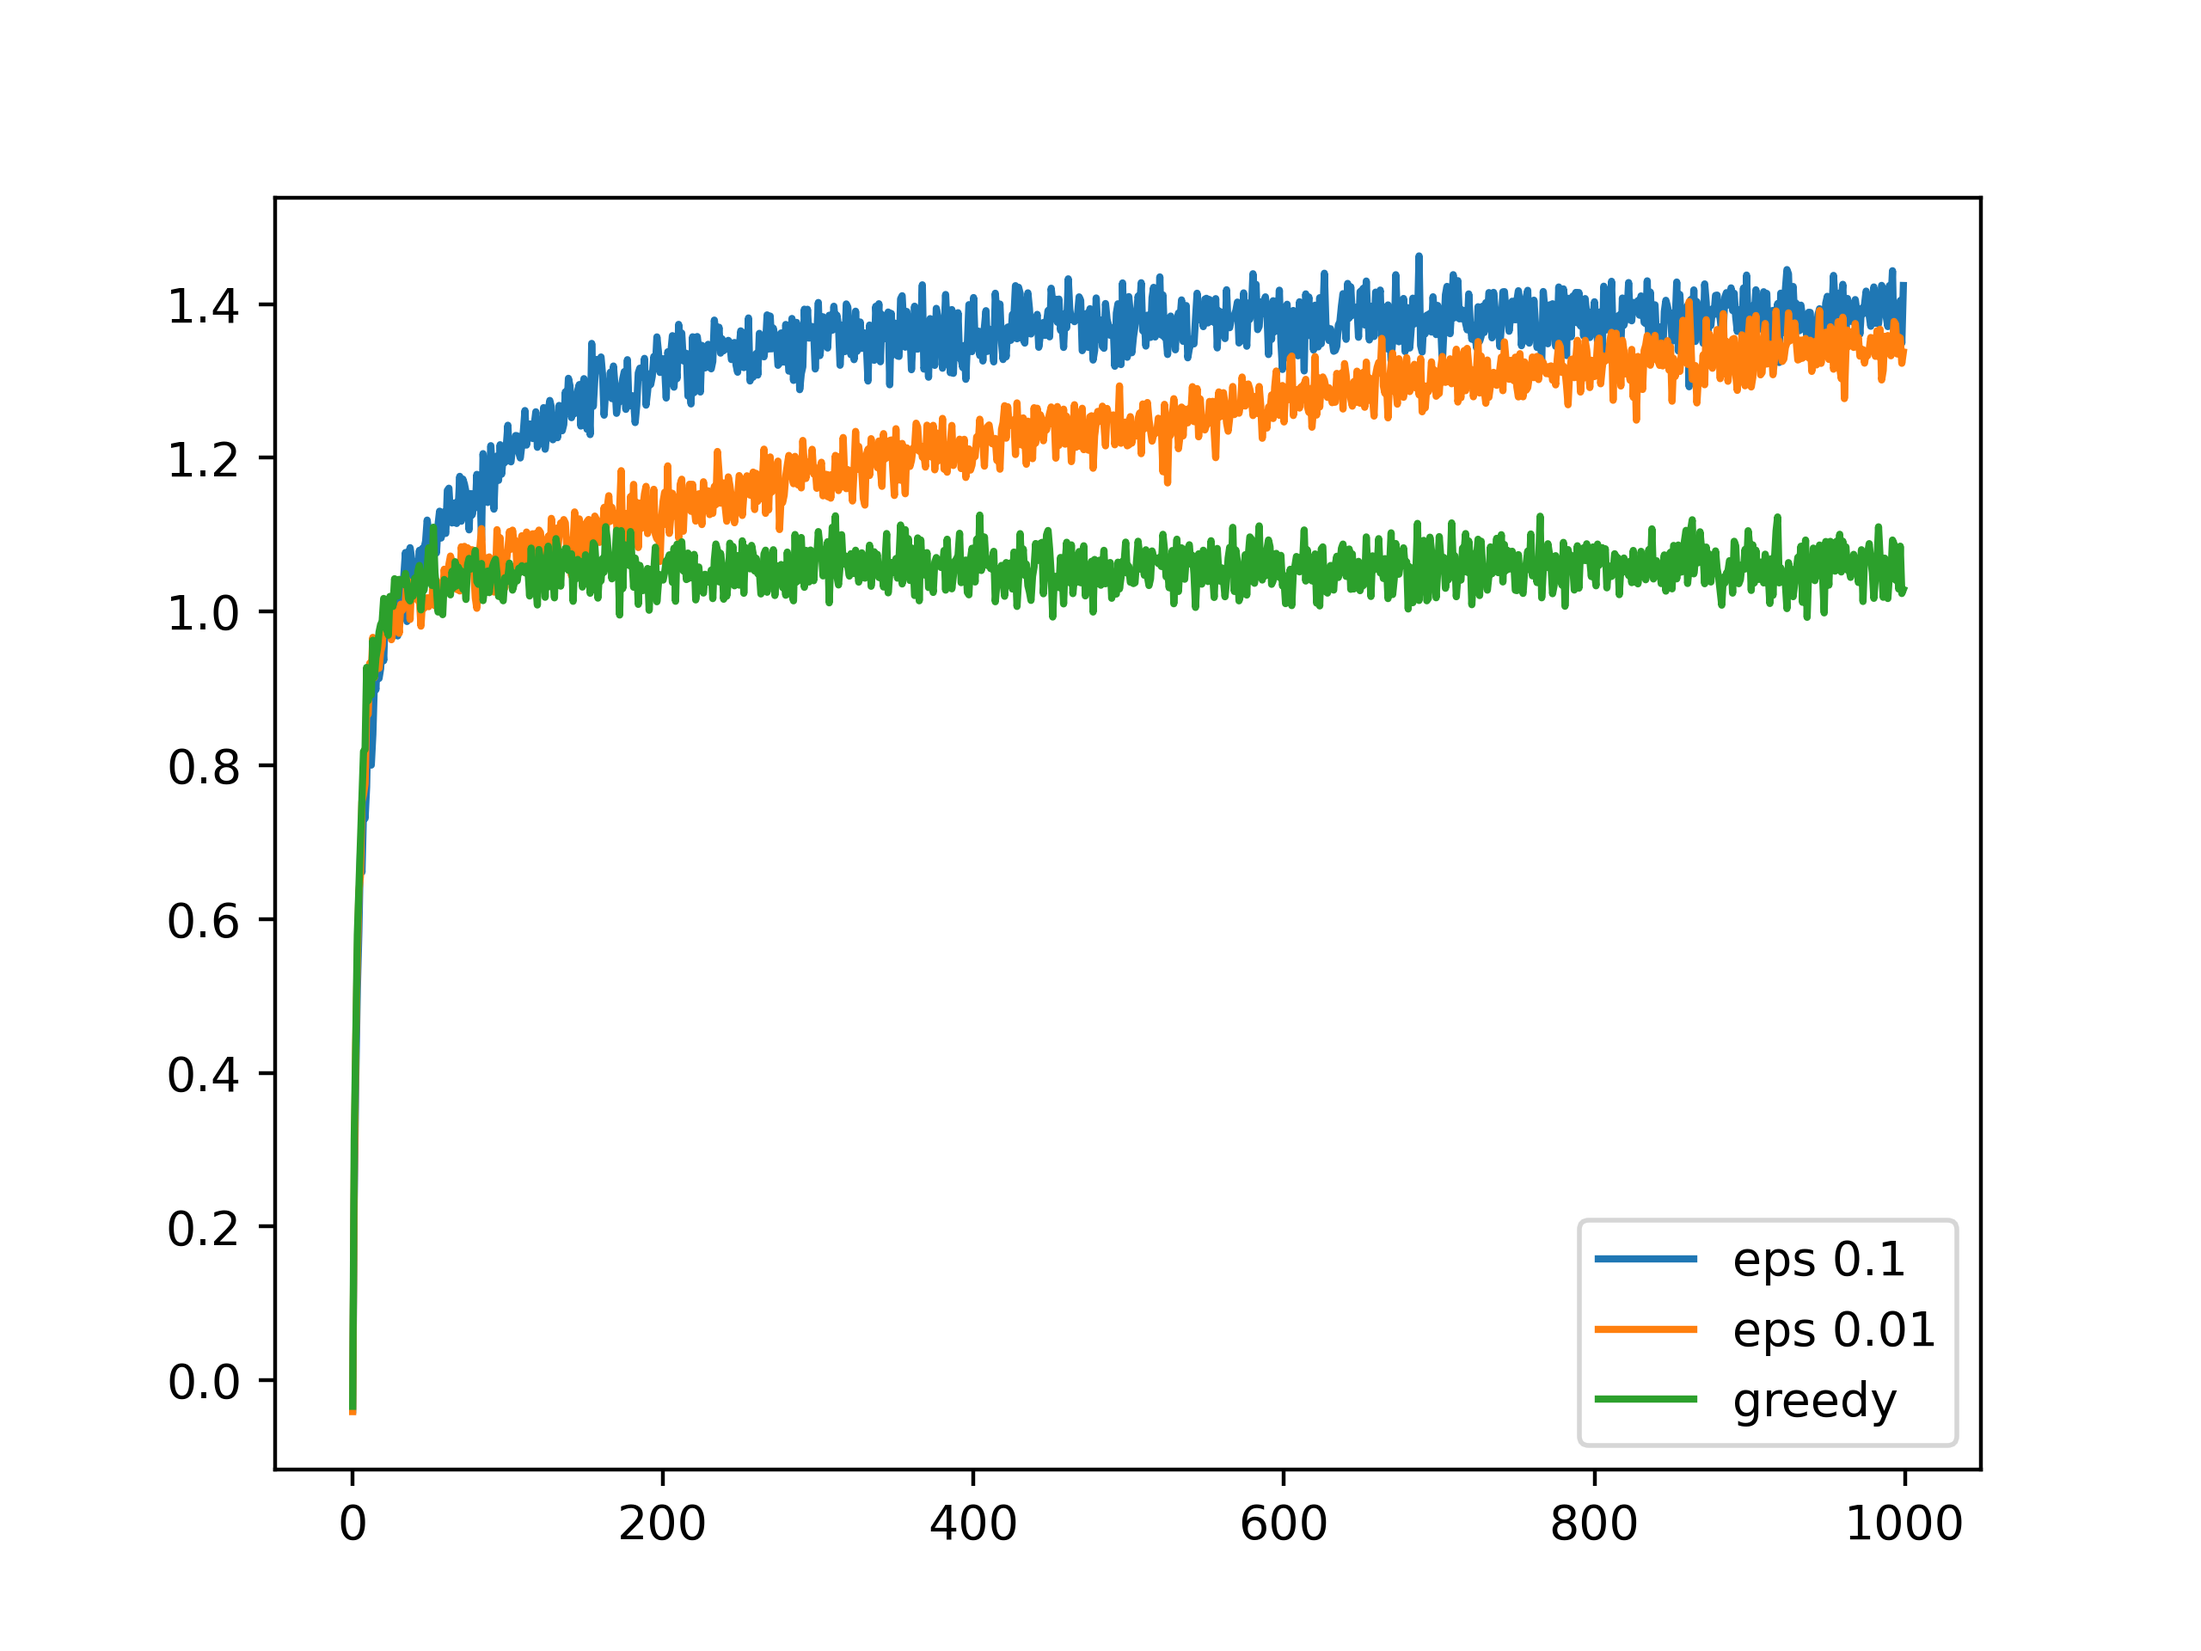
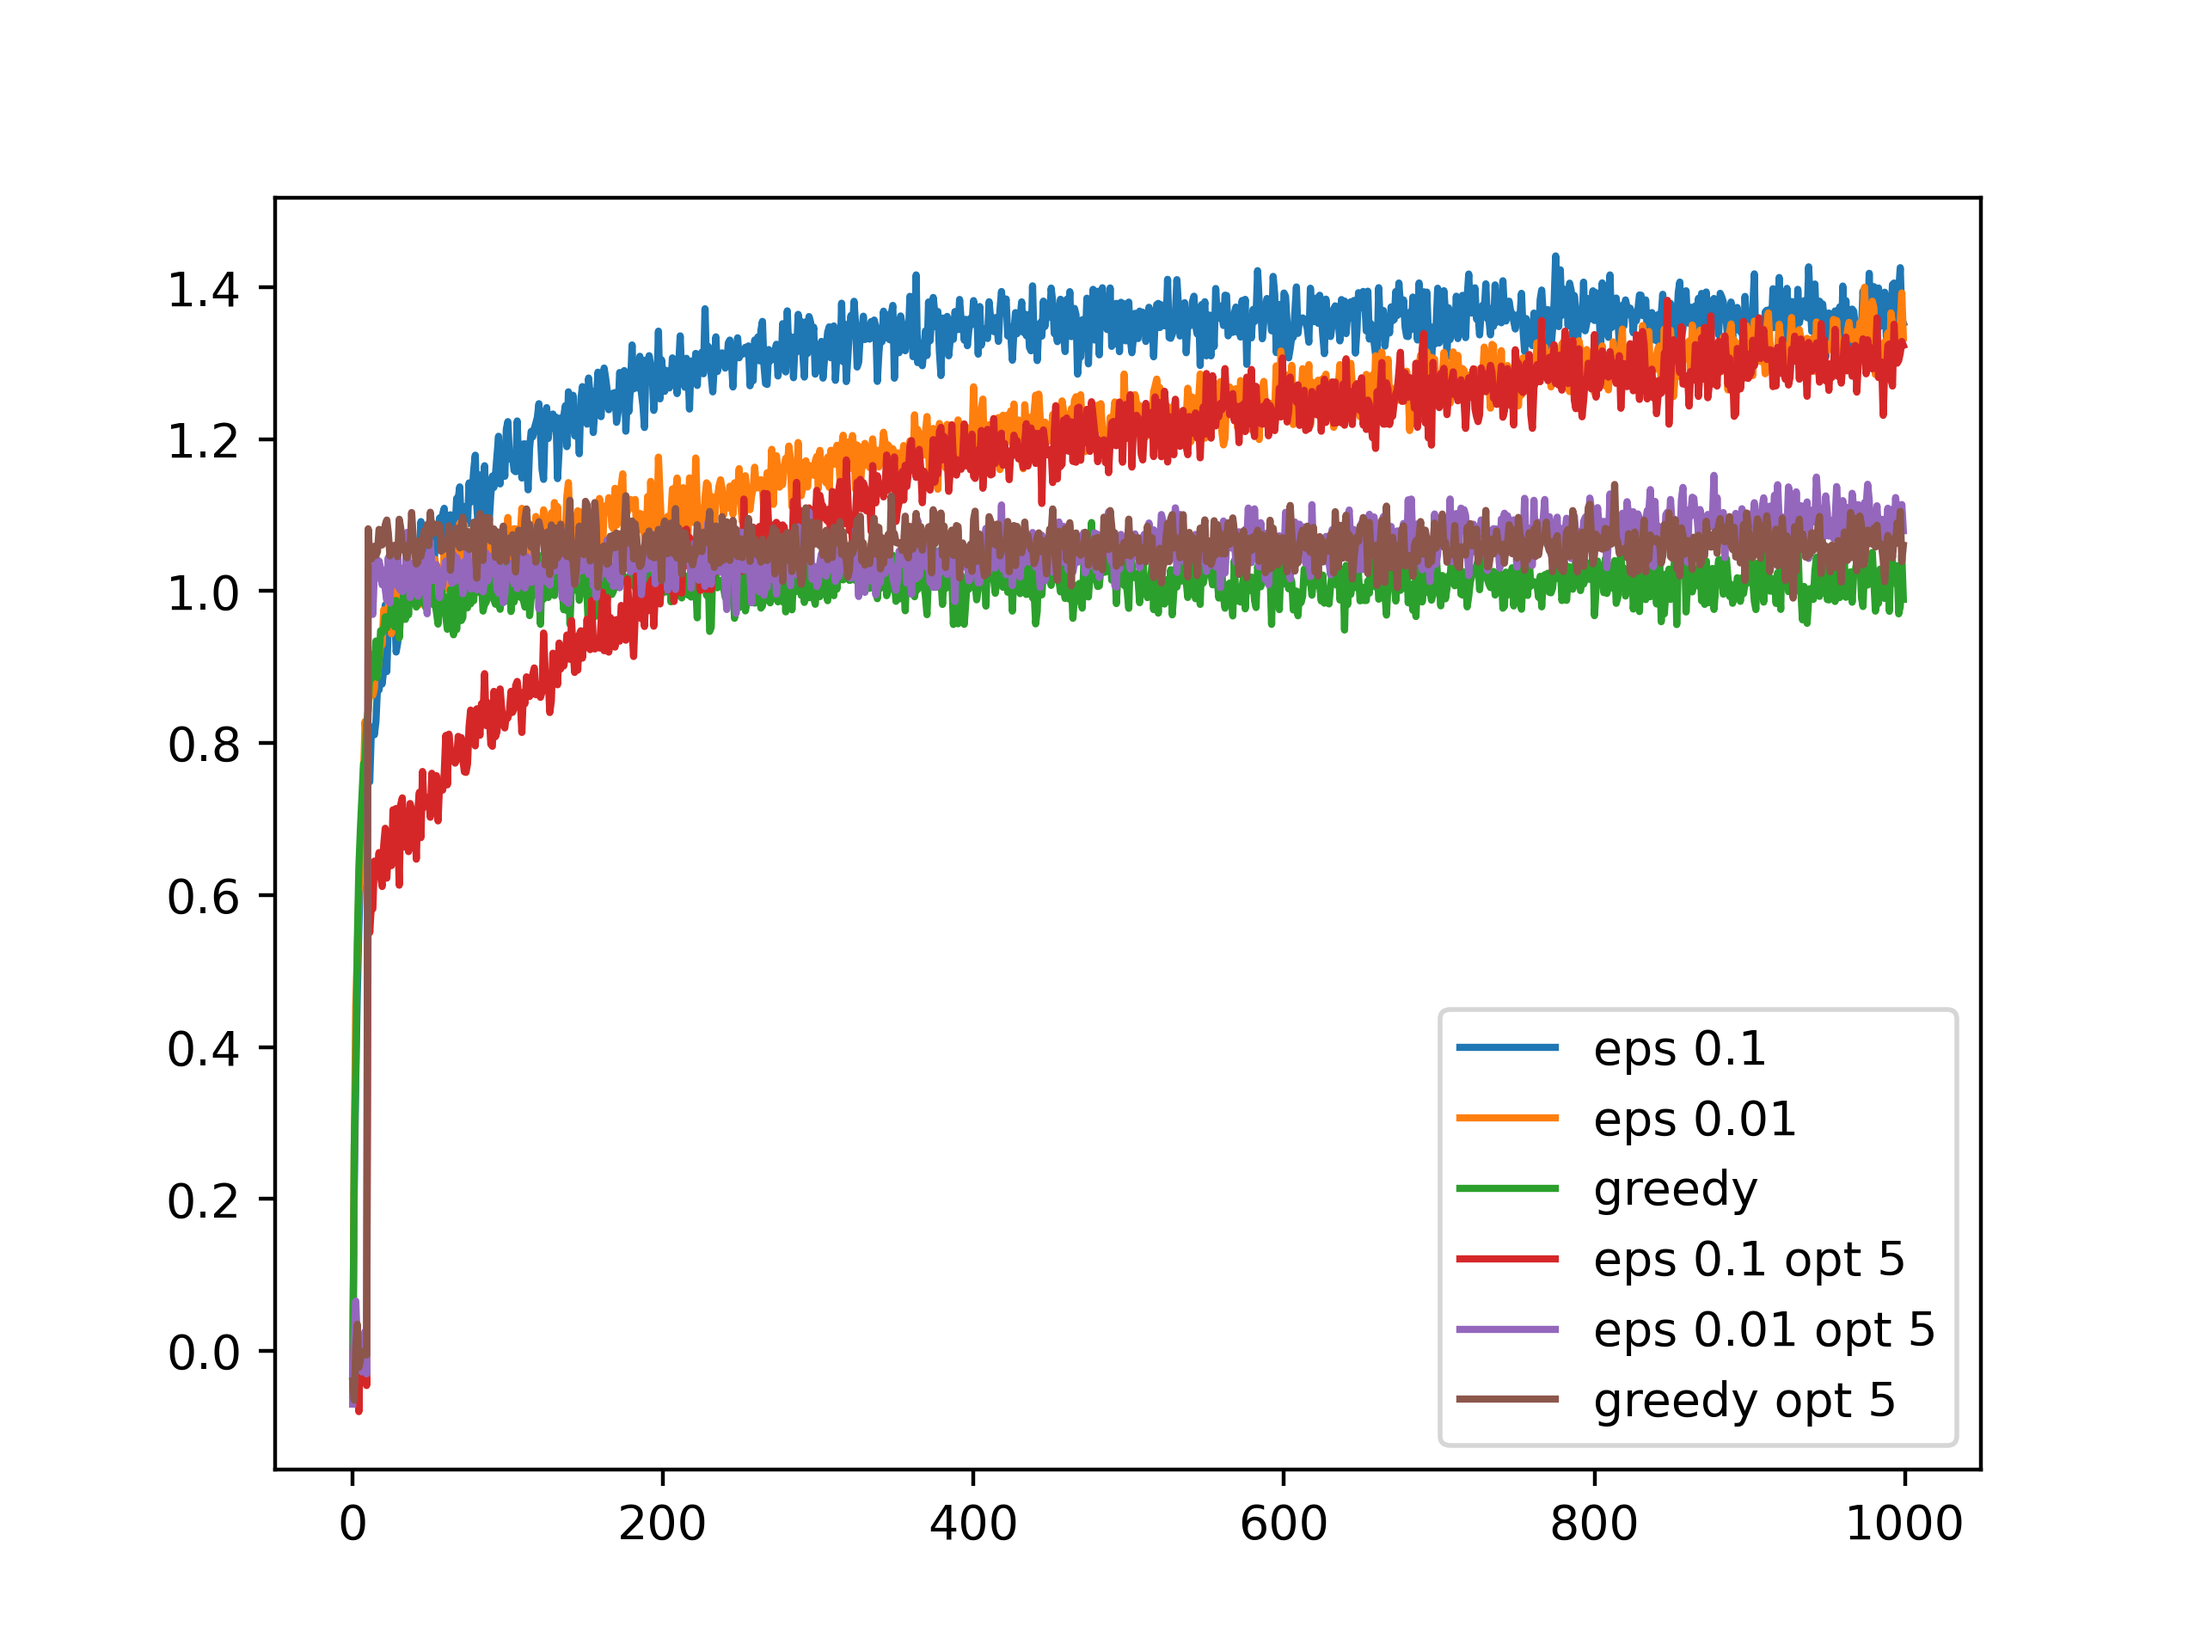
added optimism examples

diff --git a/main.py b/main.py
@@ -10,12 +10,12 @@ TRAIN_STEPS = 1000
 PLOT_FILENAME = 'plot.png'
 
 
-def agent_worker(method, envs):
+def agent_worker(method, envs, optimism=0):
   result = np.zeros(TRAIN_STEPS)
   for run in range(RUNS):
     env = envs[run]
     run_result = np.zeros(TRAIN_STEPS)
-    Qs_hat = np.zeros(K)
+    Qs_hat = np.zeros(K) + optimism
     ns = np.zeros(K) + 1e-7
     for step in range(TRAIN_STEPS):
       a = method(Qs_hat)
@@ -28,20 +28,24 @@ def agent_worker(method, envs):
 
 
 def main():
-  methods = [partial(eps_greedy_action, eps=0.1),
-             partial(eps_greedy_action, eps=0.01),
-             greedy_action]
   envs = np.random.normal(0, 1, (RUNS, K))
 
-  print('starting processes')
-  with Pool(processes=len(methods)) as pool:
-    results = pool.map(partial(agent_worker, envs=envs), methods)
-  print('done')
+  methods = [(partial(eps_greedy_action, eps=0.1), envs, 0),
+             (partial(eps_greedy_action, eps=0.01), envs, 0),
+             (greedy_action, envs, 0),
+             (partial(eps_greedy_action, eps=0.1), envs, 5),
+             (partial(eps_greedy_action, eps=0.01), envs, 5),
+             (greedy_action, envs, 5)]
 
+  print('starting processes')
+  with Pool() as pool:
+    results = pool.starmap(agent_worker, methods)
+  print('done')
   for result in results:
     plt.plot(result)
   print('saving results')
-  plt.legend(['eps 0.1', 'eps 0.01', 'greedy'])
+  plt.legend(['eps 0.1', 'eps 0.01', 'greedy',
+              'eps 0.1 opt 5', 'eps 0.01 opt 5', 'greedy opt 5'])
   plt.savefig(PLOT_FILENAME, dpi=400)
   print(f'results saved in {PLOT_FILENAME}')
 
